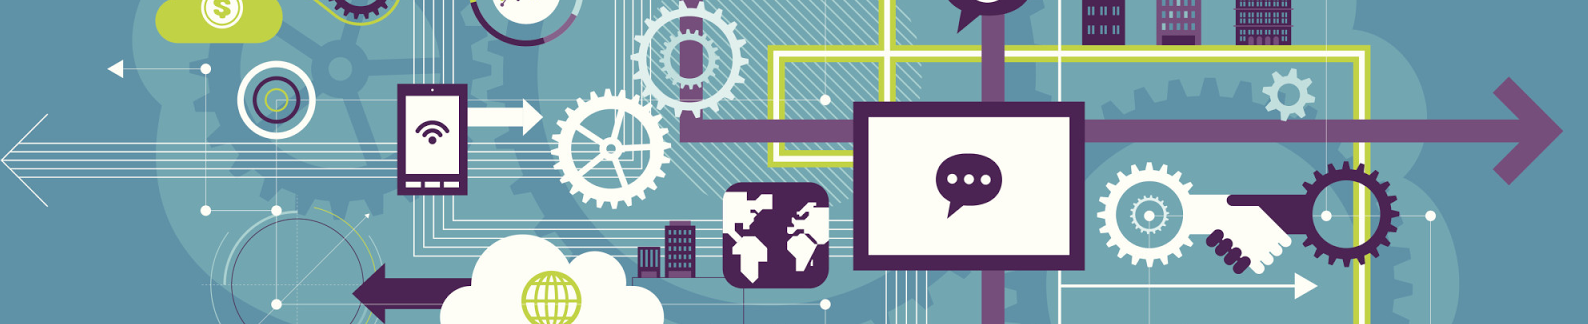
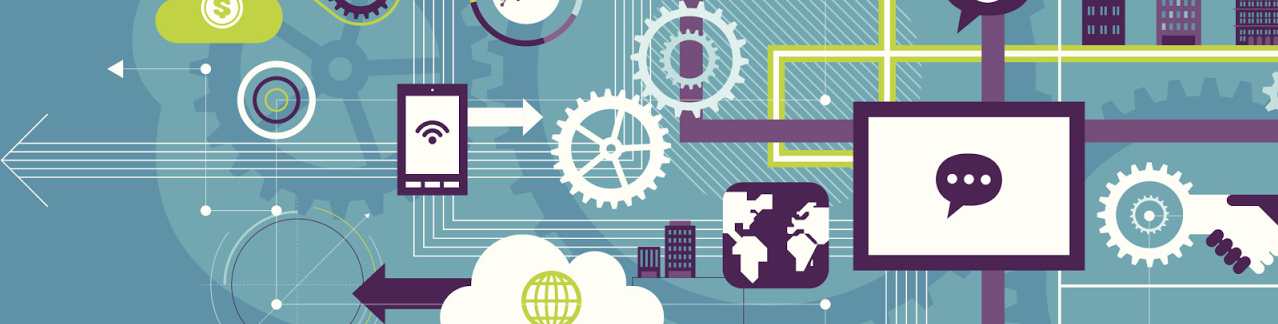
version finale produit startup panier

diff --git a/produits.html b/produits.html
@@ -6,7 +6,7 @@
 	<link rel="stylesheet" href="https://maxcdn.bootstrapcdn.com/font-awesome/4.5.0/css/font-awesome.min.css">
 	<link rel="stylesheet" href="https://maxcdn.bootstrapcdn.com/bootstrap/3.3.6/css/bootstrap.min.css" integrity="sha384-1q8mTJOASx8j1Au+a5WDVnPi2lkFfwwEAa8hDDdjZlpLegxhjVME1fgjWPGmkzs7" crossorigin="anonymous">
   <script src="angular.js"></script>
-	<title>Les start'up</title>
+	<title>Les produits</title>
 </head>
 
 <body ng-app="myApp"  ng-controller="myCtrl">
@@ -35,8 +35,10 @@
 
 <!-- banniere -->
 <div id="banniere_haute">
-	<img src="image/objets-connectes.png" alt="">
-	<h3>Les meilleurs produits Tech made in France</h3>
+	<img src="image/tech.jpg" alt="">
+	<div id= "ligne_blanche_titre">
+		<h3>Les meilleurs produits Tech <em> made in France</em></h3>
+	</div>
 </div>
 
 <!-- banniere -->
@@ -45,7 +47,7 @@
 
 
 	<div id = "container_produits">
-		<div id="card_produit" ng-repeat="service in services">
+		<div id="card_produit" ng-repeat="service in services | filter:searchStartup">
 
 				<div id="cardProduitDetail">
 

diff --git a/css/style.css b/css/style.css
@@ -73,12 +73,29 @@ i {
 
 /*banniere haute*/
 
-#banniere_haute img {
+#banniere_haute  {
 	width: 100%;
 	height: 300px;
 	background-size: cover;
 }
-
+#banniere_haute #ligne_blanche_titre{
+	position: absolute;
+	top: 250px;
+	color: black;
+	background-color: #FEFEF7;
+}
+#banniere_haute img {
+	background-size: countain;
+}
+#ligne_blanche_titre h3 {
+	margin: 0px;
+	padding-left: 20px;
+}
+#ligne_blanche_titre {
+	height: 30px;
+	width: 650px;
+	background-color: white;
+}
 footer {
 	width: 100%;
 	height: auto;
@@ -134,6 +151,7 @@ footer a {
 	flex-direction: column;
 	justify-content: center;
 	align-items: center;
+	margin-top: 40px;
 }
 
 
@@ -223,6 +241,10 @@ footer a {
 
 
 /*PANIER*/
+
+#container_panier {
+	margin-top: 40px;
+}
 
 /*BOUTONs  1 2 3 4*/
 #boutons_validation {

diff --git a/start_up.html b/start_up.html
@@ -13,6 +13,7 @@
 	<a id="haut"></a>
 
 
+
 	<!-- NAV -->
 
 	<nav id="menu">
@@ -34,7 +35,12 @@
 	<!-- NAV -->
 
 
-
+	<div id="banniere_haute">
+		<img src="image/objets-connectes.png" alt="">
+		<div id= "ligne_blanche_titre">
+			<h3>Les start'up <em> made in France</em></h3>
+		</div>
+	</div>
 
 
 	<div id = "container_startup">

diff --git a/panier.html b/panier.html
@@ -32,6 +32,16 @@
 		</ul>
 	</nav>
 	<!-- NAV -->
+
+
+	<div id="banniere_haute">
+		<img src="image/buy.jpg" alt="">
+		<div id= "ligne_blanche_titre">
+			<h3>Mes produits</h3>
+		</div>
+	</div>
+
+
 <div id="container_panier">
 	<div id="boutons_validation">
 
